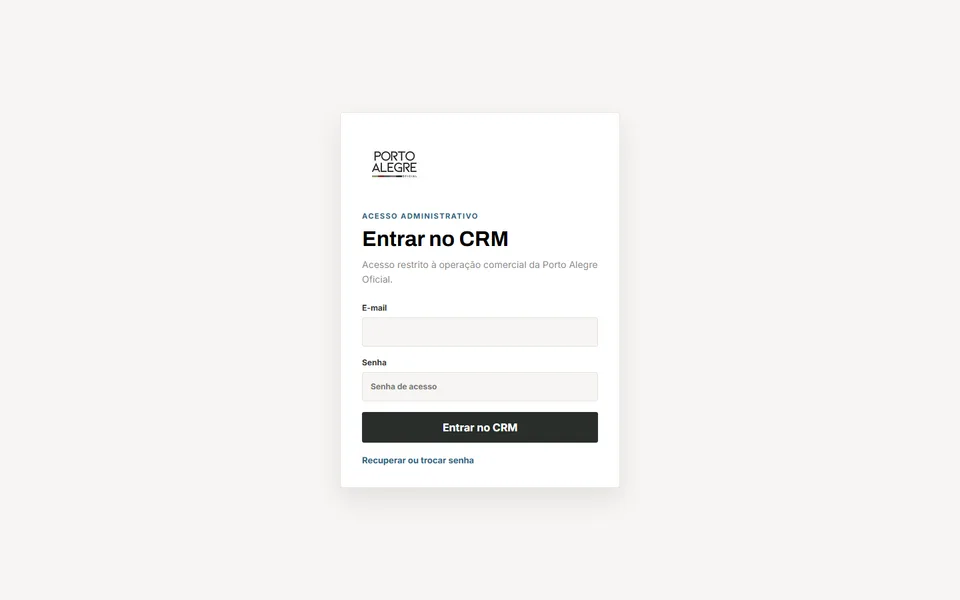
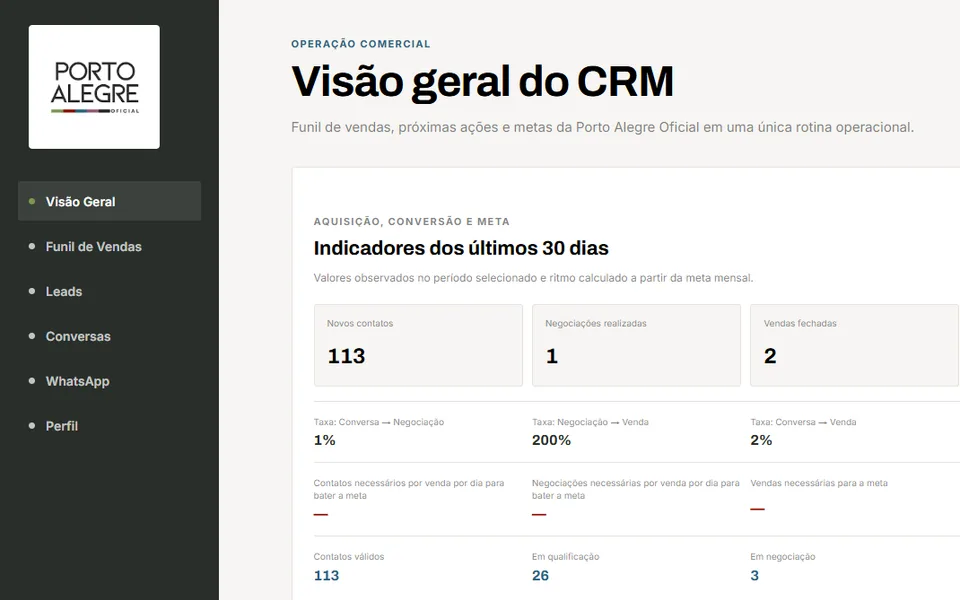
feat: use the real CRM dashboard as the Porto Alegre preview
Replaces the login screen with the actual overview screen, which shows
far more of what was built: funnel indicators, conversion rates between
stages, and response-time medians.

The founder supplied the authenticated capture. Rather than redact it,
the image is cropped 16:10 from the top left, which excludes every
sensitive region at once — past x=1070 sit the four R$ figures and the
revenue-goal input, past y=669 sit the "Rotina imediata" agenda with
real lead names and the sidebar footer identifying the logged-in user.
Framing beats redaction: nothing masked means nothing can leak, and the
result reads as a product screenshot instead of a censored document.

This repository is public, so the uncropped original must never be
committed. It moves to brand-assets/evidence/_raw/, now gitignored,
alongside a note explaining why that directory exists.

diff --git a/src/data/client-work.ts b/src/data/client-work.ts
@@ -41,7 +41,7 @@ export const clientWork: ClientProject[] = [
     client: 'Porto Alegre Oficial',
     scope: 'CRM · operação comercial',
     thumbnail: '/evidence/porto-alegre-oficial.webp',
-    thumbnailAlt: 'Tela de acesso do CRM da Porto Alegre Oficial',
+    thumbnailAlt: 'Visão geral do CRM da Porto Alegre Oficial, com indicadores de aquisição e conversão',
     artifacts: [
       {
         label: 'CRM Porto Alegre Oficial',
